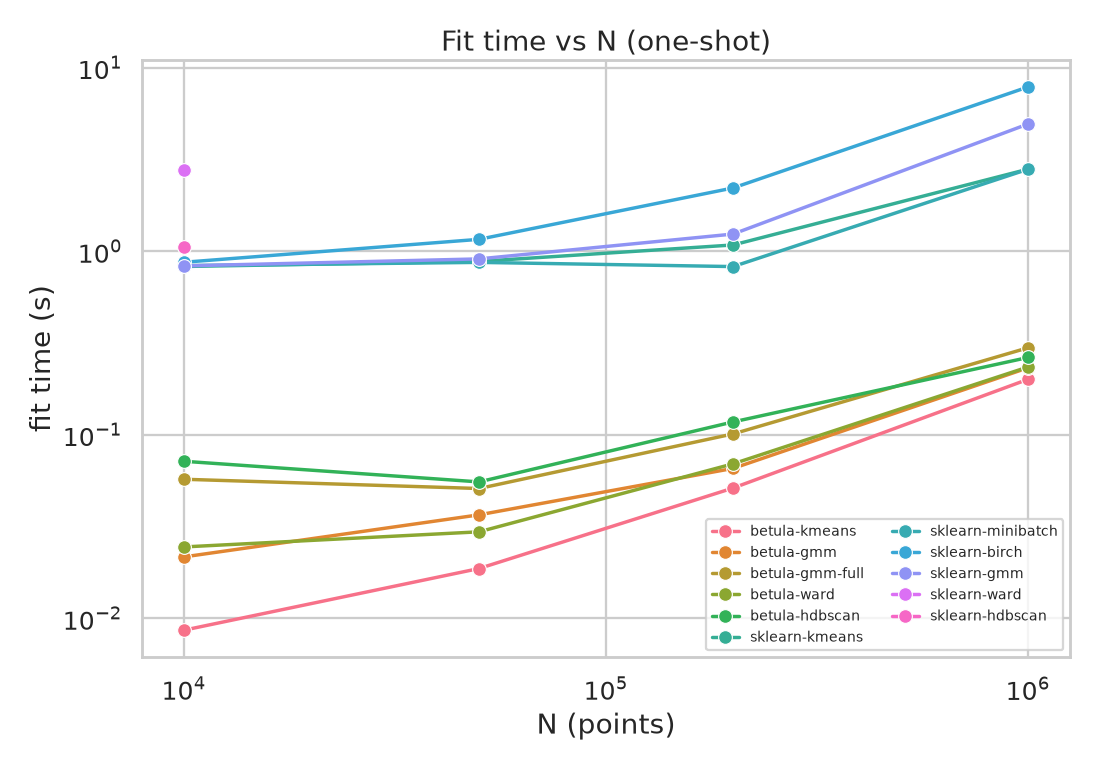
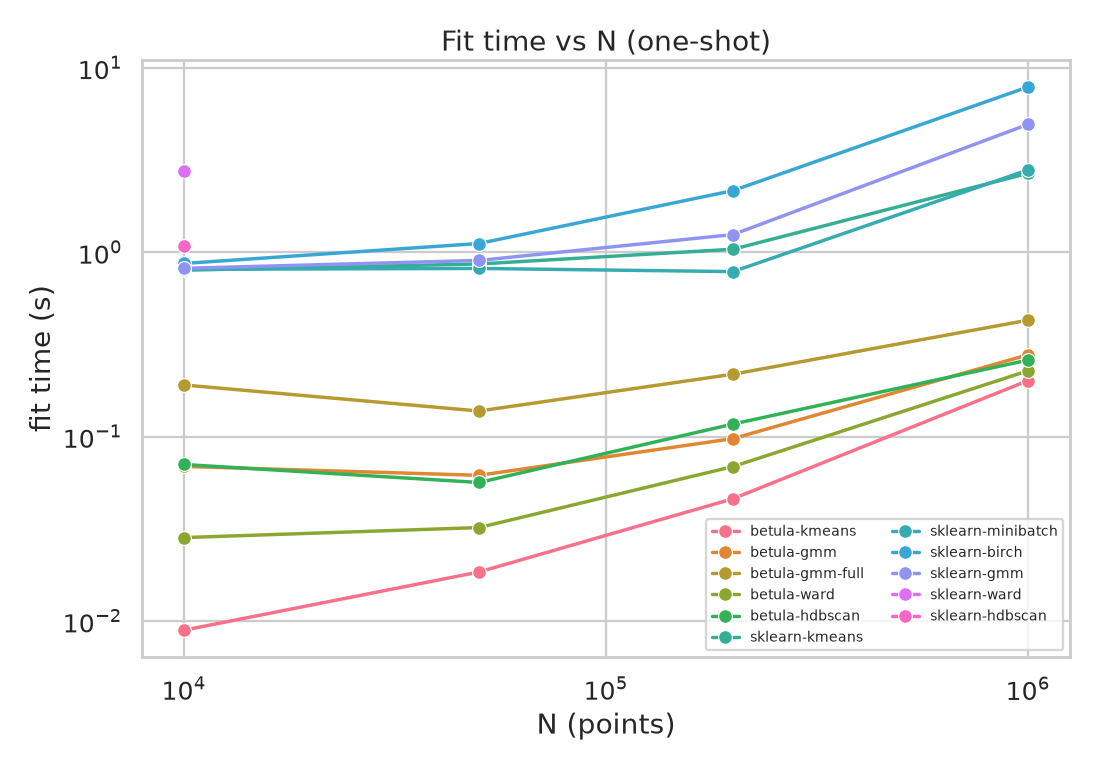
fix: make GMM robust to EM local optima via best-of-N restarts
Full-covariance GMM occasionally converged to a poor local optimum (seed-dependent: ~1 in 5 seeds, e.g. blobs ARI 0.74 instead of 0.86) — a single k-means-seeded EM init is not enough for the most expressive covariance model. The fixed-k gmm_diagonal/gmm_full now run GMM_N_INIT=4 seed-derived EM restarts and keep the highest-log-likelihood fit (loglik was already computed); auto-k stays single-shot since its k-search already provides robustness. Deterministic for a given seed.

Impact: gmm-full blobs 0.738 -> 0.860 (== sklearn 0.864), now stable across all seeds and leaf counts; diagonal unchanged. Cost is 4x the (cheap) per-leaf EM: gmm-full at 1M 0.30s -> 0.43s, still ~11x faster than sklearn-gmm. Adds a regression test that the wrapper keeps the best-loglik restart. Benchmark and RESULTS/README refreshed.

diff --git a/src/clustering/gmm.rs b/src/clustering/gmm.rs
@@ -33,7 +33,7 @@ pub struct Gmm<R: Real> {
 }
 
 /// Fit a `k`-component diagonal GMM to `features`, warm-started from k-means.
-pub fn gmm_diagonal<R: Real, C: ClusterFeature<R>>(
+fn gmm_diagonal_once<R: Real, C: ClusterFeature<R>>(
     features: &[C],
     k: usize,
     max_iter: usize,
@@ -157,6 +157,29 @@ pub fn gmm_diagonal<R: Real, C: ClusterFeature<R>>(
     }
 }
 
+/// Number of k-means-seeded EM restarts for the fixed-`k` GMM heads; the fit with the highest data
+/// log-likelihood is kept. EM is non-convex, so a single init occasionally lands in a poor local
+/// optimum (most visible for full covariance); a few seed-derived restarts make the result robust and
+/// still fully deterministic for a given `seed`.
+const GMM_N_INIT: u64 = 4;
+
+/// Fit a `k`-component diagonal GMM, keeping the best of [`GMM_N_INIT`] EM restarts by log-likelihood.
+pub fn gmm_diagonal<R: Real, C: ClusterFeature<R>>(
+    features: &[C],
+    k: usize,
+    max_iter: usize,
+    seed: u64,
+) -> Gmm<R> {
+    let mut best = gmm_diagonal_once(features, k, max_iter, seed);
+    for r in 1..GMM_N_INIT {
+        let cand = gmm_diagonal_once(features, k, max_iter, seed.wrapping_add(r));
+        if cand.loglik > best.loglik {
+            best = cand;
+        }
+    }
+    best
+}
+
 /// Total per-dimension variance of the underlying points (between-feature + within-feature),
 /// used as a prior scale and variance floor.
 fn global_variance<R: Real>(mu: &[Vec<R>], n: &[R], dim: usize) -> Vec<R> {
@@ -216,7 +239,7 @@ pub struct GmmFull<R: Real> {
 /// correlated clusters that the diagonal model cannot. Same expected-log E-step with the full
 /// within-feature correction `−½ tr(Σ_k⁻¹ Σ_i)`; component covariances are factored (Cholesky)
 /// for a stable log-determinant, quadratic form and inverse.
-pub fn gmm_full<R: Real, C: ClusterFeature<R>>(
+fn gmm_full_once<R: Real, C: ClusterFeature<R>>(
     features: &[C],
     k: usize,
     max_iter: usize,
@@ -350,6 +373,24 @@ pub fn gmm_full<R: Real, C: ClusterFeature<R>>(
     }
 }
 
+/// Fit a `k`-component full-covariance GMM, keeping the best of [`GMM_N_INIT`] EM restarts by
+/// log-likelihood. Full covariance has the most local optima, so the restarts matter most here.
+pub fn gmm_full<R: Real, C: ClusterFeature<R>>(
+    features: &[C],
+    k: usize,
+    max_iter: usize,
+    seed: u64,
+) -> GmmFull<R> {
+    let mut best = gmm_full_once(features, k, max_iter, seed);
+    for r in 1..GMM_N_INIT {
+        let cand = gmm_full_once(features, k, max_iter, seed.wrapping_add(r));
+        if cand.loglik > best.loglik {
+            best = cand;
+        }
+    }
+    best
+}
+
 /// Total per-pair covariance of the underlying points (between-feature + within-feature).
 fn global_cov<R: Real>(mu: &[Vec<R>], n: &[R], sig: &[SecondMoment<R>], dim: usize) -> Vec<Vec<R>> {
     let wtot: R = n.iter().copied().sum();
@@ -440,7 +481,7 @@ pub fn gmm_diagonal_auto<R: Real, C: ClusterFeature<R>>(
     let mut best_score = R::infinity();
     let mut best: Option<Gmm<R>> = None;
     for k in k_lo..=k_hi {
-        let g = gmm_diagonal(features, k, max_iter, seed);
+        let g = gmm_diagonal_once(features, k, max_iter, seed);
         let p = 2 * k * d + (k - 1); // means + diagonal vars + mixing weights
         let score = bic(g.loglik, p, ntot);
         if score < best_score {
@@ -468,7 +509,7 @@ pub fn gmm_full_auto<R: Real, C: ClusterFeature<R>>(
     let mut best_score = R::infinity();
     let mut best: Option<GmmFull<R>> = None;
     for k in k_lo..=k_hi {
-        let g = gmm_full(features, k, max_iter, seed);
+        let g = gmm_full_once(features, k, max_iter, seed);
         let p = k * d + k * d * (d + 1) / 2 + (k - 1); // means + lower-tri cov + mixing
         let score = bic(g.loglik, p, ntot);
         if score < best_score {
@@ -495,6 +536,27 @@ mod tests {
         let labels: Vec<usize> = point_to_micro.iter().map(|&m| g.labels[m]).collect();
         let score = ari(&labels, &truth);
         assert!(score > 0.95, "ARI = {score}");
+    }
+
+    #[test]
+    fn gmm_full_restarts_keep_highest_loglik() {
+        // EM is non-convex; the fixed-k wrapper must return the best of its GMM_N_INIT restarts,
+        // never a worse one (guards the local-optimum "dip" fix).
+        let mut rng = SplitMix64::new(5);
+        let centers = [[0.0, 0.0], [6.0, 0.0], [0.0, 6.0], [6.0, 6.0]];
+        let (pts, _) = blobs(&mut rng, 300, &centers, 1.4); // overlap → multiple local optima
+        let (micros, _) = grid_micros(&pts, 0.4);
+        let multi = gmm_full(&micros, 4, 200, 0);
+        for r in 0..GMM_N_INIT {
+            let once = gmm_full_once(&micros, 4, 200, r);
+            assert!(
+                multi.loglik + 1e-6 >= once.loglik,
+                "wrapper loglik {} < single-init seed {} loglik {}",
+                multi.loglik,
+                r,
+                once.loglik
+            );
+        }
     }
 
     #[test]

diff --git a/bench/RESULTS.md b/bench/RESULTS.md
@@ -56,7 +56,7 @@ Absolute times vary by machine; the *ratios* far less.
 | sklearn-kmeans | 0.861 | 0.545 | 0.539 | 1.00 | 0.485 | 0.00 |
 | sklearn-minibatch | 0.861 | 0.547 | 0.539 | 1.00 | 0.482 | 0.00 |
 | **betula-gmm** (diag) | 0.860 | 0.544 | 0.753 | 1.00 | 0.518 | 0.00 |
-| **betula-gmm-full** | 0.738 | **0.899** | 0.753 | 1.00 | 0.504 | 0.00 |
+| **betula-gmm-full** | 0.860 | **0.899** | 0.753 | 1.00 | 0.508 | 0.00 |
 | sklearn-gmm (full) | 0.864 | 0.902 | 0.752 | 1.00 | 0.507 | 0.00 |
 | **betula-ward** | 0.807 | 0.551 | 0.611 | 1.00 | 0.706 | 0.00 |
 | sklearn-ward | 0.820 | 0.532 | 0.459 | 1.00 | 0.507 | 0.00 |
@@ -81,19 +81,21 @@ for blobs and HDBSCAN-on-CF for density/noise/non-convex.
 | method | time @ 1 M | vs betula-kmeans |
 |---|---|---|
 | **betula-kmeans** | **0.20 s** | 1× |
-| betula-gmm | 0.23 s | 1.2× |
-| betula-ward | 0.23 s | 1.2× |
+| betula-ward | 0.23 s | 1.1× |
 | betula-hdbscan | 0.26 s | 1.3× |
-| betula-gmm-full | 0.30 s | 1.5× |
-| sklearn-minibatch | 2.80 s | 14× |
-| sklearn-kmeans | 2.80 s | 14× |
+| betula-gmm | 0.28 s | 1.4× |
+| betula-gmm-full | 0.43 s | 2.1× |
+| sklearn-kmeans | 2.68 s | 13× |
+| sklearn-minibatch | 2.79 s | 14× |
 | sklearn-gmm | 4.94 s | 25× |
-| sklearn-birch | 7.86 s | **39×** |
+| sklearn-birch | 7.88 s | **39×** |
 | sklearn-ward, sklearn-hdbscan | (O(N²) — capped at N ≤ 30 k) | — |
 
-All five betula heads finish a million points in **under a third of a second**, because Phase-3
-clusters only the ~2000 leaf microclusters, not the raw points. Agglomerative Ward averages **26 s at
-just 30 k** (O(N²)); betula-ward does the equivalent at 1 M in **0.23 s**.
+Four of the five betula heads finish a million points in **under 0.3 s**; full-covariance GMM runs
+**4 EM restarts** (for robustness against local optima) and still finishes in **0.43 s** — ~11× faster
+than scikit-learn's GMM. Phase-3 clusters only the ~2000 leaf microclusters, not the raw points.
+Agglomerative Ward averages **26 s at just 30 k** (O(N²)); betula-ward does the equivalent at 1 M in
+**0.23 s**.
 
 ## Memory — streaming stays bounded
 

diff --git a/README.md b/README.md
@@ -25,8 +25,8 @@ with peak RSS sampled from `/proc/self/statm`. Full methodology, every metric, a
 - 🎯 **Quality at parity.** betula's k-means / GMM / Ward land within **≈0.01 ARI** of their
   scikit-learn counterparts; full-covariance GMM recovers anisotropic clusters just as well
   (0.90 vs 0.90); HDBSCAN-on-CF nails non-convex moons & circles (**ARI 1.00**).
-- ⚡ **14–39× faster at N = 1 000 000.** betula-kmeans labels a million points in **0.20 s** vs
-  scikit-learn KMeans 2.8 s (14×), Birch 7.9 s (39×), GaussianMixture 4.9 s (25×).
+- ⚡ **13–39× faster at N = 1 000 000.** betula-kmeans labels a million points in **0.20 s** vs
+  scikit-learn KMeans 2.7 s (13×), Birch 7.9 s (39×), GaussianMixture 4.9 s (25×).
 - 🪶 **Bounded memory.** Streaming 10 M points peaks at **~57 MB — flat in N** — while an in-core
   KMeans must hold the array and peaks at **~5 GB** (**≈88× less**, and the gap grows without limit).
 
@@ -126,7 +126,7 @@ And three **end-to-end use cases** (each scored against ground truth):
 - [**Benchmarks**](bench/RESULTS.md) — methodology, every metric, all tables, honest wins & losses.
 - [**Design**](DESIGN.md) — internal design, invariants, and testing strategy.
 
-Verified: **127** Rust unit/integration tests + a **121-case** Python suite at **100%** wrapper
+Verified: **128** Rust unit/integration tests + a **121-case** Python suite at **100%** wrapper
 coverage (Rust ≥95%, CI-enforced), `clippy -D warnings` + `fmt` clean across all feature sets, on
 Python 3.11–3.14 (single abi3 wheel).
 

diff --git a/DESIGN.md b/DESIGN.md
@@ -113,7 +113,7 @@ zero dispatch cost; Python/CLI pick variants via enums.
 
 ## Status
 
-**Done & verified** — 123 Rust unit + 4 integration tests (`--features python,persistence`; more
+**Done & verified** — 124 Rust unit + 4 integration tests (`--features python,persistence`; more
 behind `cli`) + a 121-case `pytest` suite (Python wrapper at 100 % line coverage, Rust ≥95 %
 CI-enforced via `cargo llvm-cov`); `clippy -D warnings` + `fmt` clean (across `parallel`, serial,
 `persistence`, `cli`, and `python` feature sets); GitHub Actions CI (Rust gate